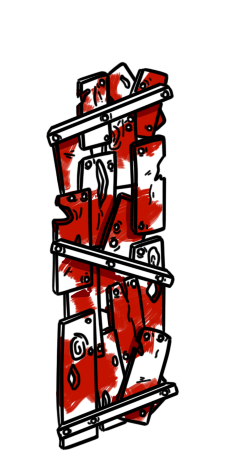
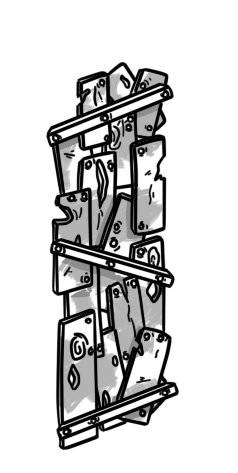
Recoloration chevalier + fix coeurs non synchronisés

diff --git a/League of Losers/Assets/Scripts/PlayerColor.cs b/League of Losers/Assets/Scripts/PlayerColor.cs
@@ -81,7 +81,7 @@ public class PlayerColor : MonoBehaviour {
                 getChildByName(transform, "ClassicKBodyColor").GetComponent<SpriteRenderer>().color = colClothes;
                 getChildByName(transform, "ClassicKShieldColor").GetComponent<SpriteRenderer>().color = colClothes;
                // getChildByName(transform, "KHead").GetComponent<SpriteRenderer>().color = colHair;
-                getChildByName(transform, "ClassicKHelmetColor").GetComponent<SpriteRenderer>().color = colHair;
+                getChildByName(transform, "ClassicKHelmetColor").GetComponent<SpriteRenderer>().color = colClothes;
             }
         }
 

diff --git a/League of Losers/Assets/Scripts/PlayerControllerScript.cs b/League of Losers/Assets/Scripts/PlayerControllerScript.cs
@@ -118,6 +118,20 @@ public class PlayerControllerScript : MonoBehaviour
         
         originalGravityScale = m_Body.gravityScale;
     }
+    
+    
+    public void OnPhotonSerializeView(PhotonStream stream, PhotonMessageInfo info)
+    {
+        // gère la synchronisation des coeurs
+        if (stream.isWriting)
+        {
+            stream.SendNext(m_Lives);
+        }
+        else
+        {
+            m_Lives = (int) stream.ReceiveNext();
+        }
+    }
 
     /// <summary>
     /// Appelé à chaque nouvelle trame. Gère les différents inputs initiant le déplacement, dash, saut, etc.
